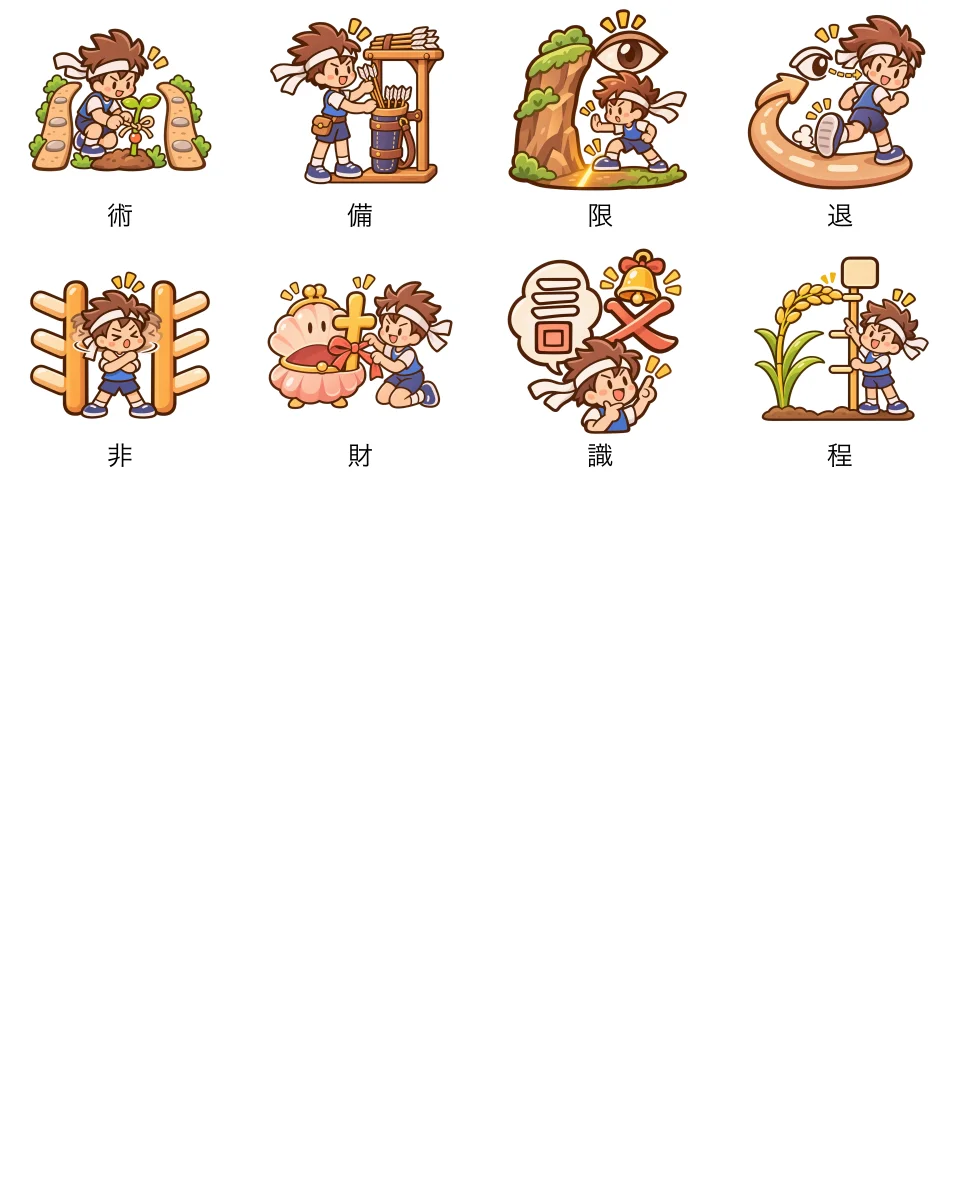
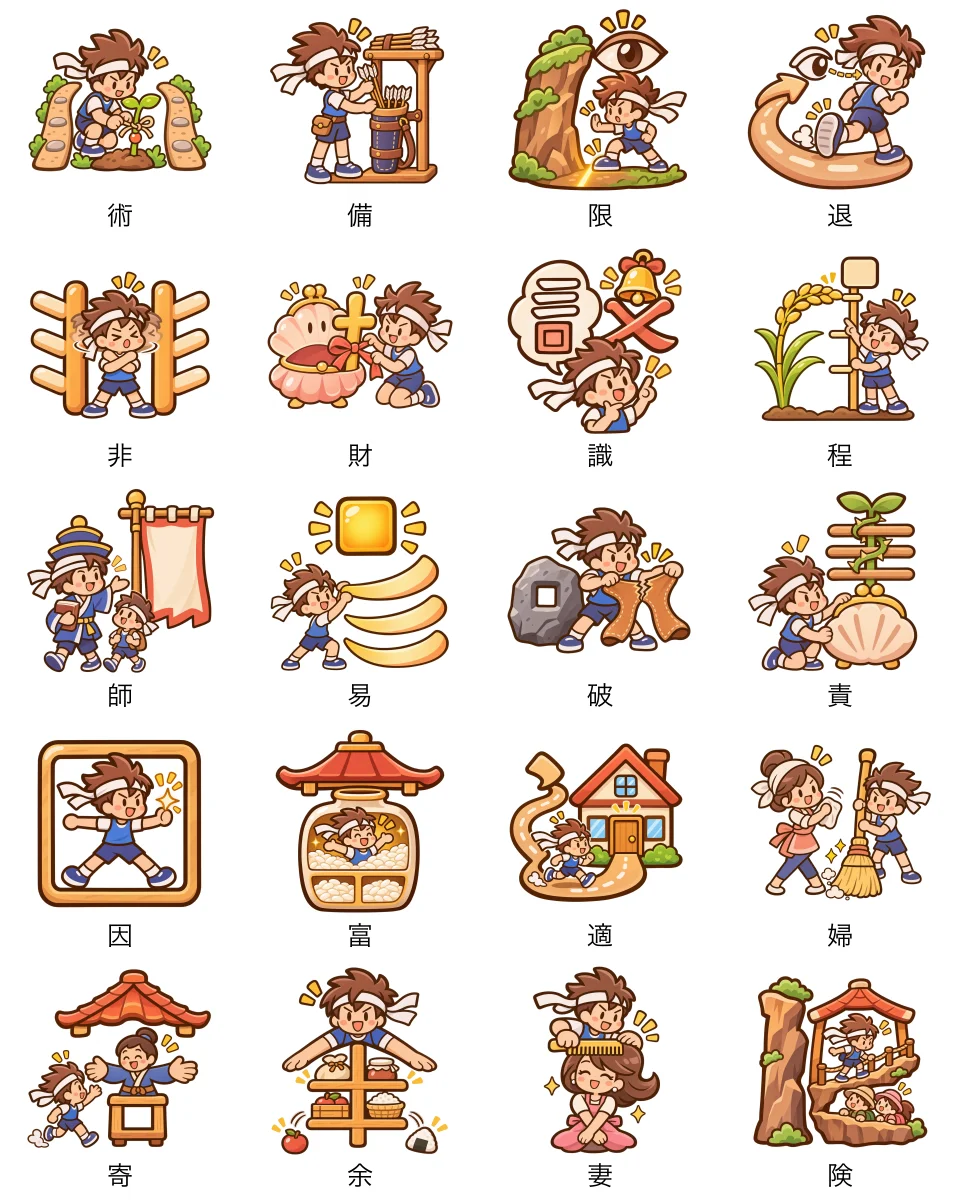
Complete and wire all N3 mnemonic illustrations

diff --git a/art-source/N3_PROGRESS.md b/art-source/N3_PROGRESS.md
@@ -2,10 +2,9 @@
 
 - Branch: `codex/n3-mnemonic-art`, based on the N5/N4 production release. Other site commits may appear on this shared branch; do not revert them.
 - Target: 367 N3 kanji in `src/data/kanji.json`.
-- Accepted transparent WebP sources: 248/367 in `art-source/hand/`, following N3 deck order through 程. Thirteen contact sheets at `art-source/review/n3-sheet-1.webp` through `n3-sheet-13.webp` were reviewed at card size. `node scripts/art/check-hand-art.mjs N3` reports zero translucent edge flags. These 248 sources are wired into `src/data/hand-art.json` and `public/art/` through `npm run art`; the remaining N3 cards still use draft scenes.
-- `art-source/n3-shape-briefs.json` covers all 367 kanji, with all 367 shape briefs reviewed in deck order. Entries 249–367 (師 through 幾) have reviewed briefs but no accepted images yet. Image prompts should use these as shape mnemonics, then verify generated stroke/component placement at card size.
-- The built-in image service resumed on 15 November 2026 after the reported reset, then returned `usage_limit_reached` after card 248. Its reported next reset is Monday 16 November 2026 at 11:03 am Sydney time. The next image to generate is 師.
+- Accepted transparent WebP sources: **367/367** in `art-source/hand/`, following N3 deck order from 石 through 幾. All 19 contact sheets at `art-source/review/n3-sheet-1.webp` through `n3-sheet-19.webp` were reviewed at card size. `node scripts/art/check-hand-art.mjs N3` reports zero translucent edge flags. All 367 sources are wired into `src/data/hand-art.json` and `public/art/` through `npm run art`.
+- `art-source/n3-shape-briefs.json` covers all 367 kanji, with all 367 shape briefs reviewed in deck order.
 - Use only the three colorful user-supplied images for visual style: `before.png`, `Cheerful Nine Kanji Mascot_gbc.png`, and `yasumu.png` from `/Users/andriastaniwan/Downloads/Sonna Kanji new images/`. Do not pass any repository image, including N5/N4/N3 art, as an image reference. The monochrome book examples inform component placement in words, not visual style.
 - These are shape mnemonics. Do not present an unverified mnemonic story as a historical origin.
-- A one-time continuation ran on 15 November 2026 after the quota reset. Continue to generate with the built-in image tool, import using `node scripts/art/import-generated.mjs N3 KANJI PNG`, review contact sheets, correct misses, then rerun `npm run art`, `npm test`, and `npm run build` for newly accepted images and the complete level.
-- The user previously declined a daily continuation automation; no automation is set for this work.
+- Artwork generation is complete. The built-in image service moderation blocks for 認 and 痛 were resolved by revising the briefs to gentler scenes; both final images were generated, reviewed and imported. 許 was regenerated to remove a translucent edge flag.
+- N5, N4 and N3 together have 612 hand illustrations. The N3 deck remains in beta for its mnemonic text and level settings.

diff --git a/README.md b/README.md
@@ -2,8 +2,8 @@
 
 Kanji mnemonics for the JLPT: a static, SEO-friendly Astro site with one page per
 kanji, swipeable cards and browser-based spaced repetition (FSRS). N5 and N4 are
-hand-tuned. N3, N2 and N1 are in beta: their mnemonics are first drafts. The first
-248 N3 cards have hand illustrations; remaining beta drawings are generated by
+hand-tuned. N3, N2 and N1 are in beta: their mnemonics are first drafts. All 367
+N3 cards have hand illustrations; remaining beta drawings are generated by
 `scripts/art/auto-scenes.mjs`.
 There is no database. Review progress lives in the visitor's `localStorage`.
 
@@ -27,9 +27,9 @@ production domain automatically; set `SITE_URL` in Vercel to override it.
 | `src/data/parts.json` | Hand | English names for kanji components |
 | `src/data/slugs.json` | `node scripts/build-slugs.mjs` | Permanent URL per kanji; existing entries never change |
 | `scripts/art/scenes.mjs` | Hand | One drawing per kanji, built from the kit in `sprites.mjs` |
-| `art-source/hand/` | Hand | Transparent N5, N4 and partial N3 illustration sources; these take priority over scenes |
+| `art-source/hand/` | Hand | Transparent N5, N4 and N3 illustration sources; these take priority over scenes |
 | `art-source/n5-shape-briefs.json`, `art-source/n4-shape-briefs.json`, `art-source/n3-shape-briefs.json` | Hand | Visual memory cues and component layouts for N5, N4 and N3 illustrations |
-| `art-source/review/` | Hand | Contact sheets for reviewing the N5 and N4 sets |
+| `art-source/review/` | Hand | Contact sheets for reviewing the N5, N4 and N3 sets |
 | `public/art/` | `npm run art` | WebP files from hand sources and SVGs from scenes; rerun after editing either |
 
 `npm run data` caches every response in `.cache/`, so reruns are offline and
